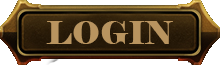
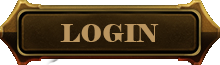
fuck

Changed region(s): [[0.1909, 0.3077, 0.7909, 0.6769]]

diff --git a/Game-V2/src/Graphics/LoginWindow.java b/Game-V2/src/Graphics/LoginWindow.java
@@ -11,10 +11,15 @@ import javax.swing.JFormattedTextField;
 import javax.swing.JLabel;
 import java.awt.Font;
 import java.awt.Color;
+import java.awt.Dimension;
+
+import javax.imageio.ImageIO;
+import javax.swing.ImageIcon;
 import javax.swing.JButton;
 import javax.swing.JPasswordField;
 import java.awt.event.MouseAdapter;
 import java.awt.event.MouseEvent;
+import java.io.File;
 import java.awt.event.KeyAdapter;
 import java.awt.event.KeyEvent;
 
@@ -25,23 +30,12 @@ public class LoginWindow {
 	private JPasswordField passwordField;
 	private String username, passwordHash;
 	private MainWindowManager parentClass;
-	/**
-	 * Launch the application.
-	 */
-//	public static void main(String[] args) {
-//		EventQueue.invokeLater(new Runnable() {
-//			public void run() {
-//				try {
-//														//just because I have to
-//					LoginWindow window = new LoginWindow(new MainWindowManager());
-//					window.frame.setVisible(true);
-//					
-//				} catch (Exception e) {
-//					e.printStackTrace();
-//				}
-//			}
-//		});
-//	}
+	private ImageIcon loginBtnimg, loginBtnpressedimg, registerBtnimg, registerBtnpressedimg;
+	
+	private Dimension size = java.awt.Toolkit.getDefaultToolkit().getScreenSize();
+	private final int screenWidth = size.width;
+	private final int screenHeight = size.height;
+
 	
 	public LoginWindow(MainWindowManager parentClass) {
 		this.parentClass = parentClass;
@@ -55,29 +49,24 @@ public class LoginWindow {
 		this.parentClass = parentClass;
 		this.frame = frame;
 		initialize();
-//		MainWindowManager.centreWindow(frame);
-//		this.frame.setVisible(true);
 	}
 	
-	/**
-	 * Create the application.
-	 */
-	/**
-	public LoginWindow() {
-		initialize();
-		MainWindowManager.centreWindow(frame);
-		frame.setVisible(true);
-	}
-	*/
+
+
 
 	/**
 	 * Initialize the contents of the frame.
 	 */
 	private void initialize() {
+		try {
+		loginBtnimg = new ImageIcon(ImageIO.read(new File("src/resources/MainScreenImg/loginBtn.png")));
+		loginBtnpressedimg = new ImageIcon(ImageIO.read(new File("src/resources/MainScreenImg/loginBtnpressed.png")));
+		registerBtnimg = new ImageIcon(ImageIO.read(new File("src/resources/MainScreenImg/registerBtn.png")));
+		registerBtnpressedimg = new ImageIcon(ImageIO.read(new File("src/resources/MainScreenImg/registerBtnpressed.png")));
+		}catch(Exception e) {
+			e.printStackTrace();
+		}
 
-//		frame.setBounds(100, 100, 600, 400);
-//		frame.setDefaultCloseOperation(JFrame.EXIT_ON_CLOSE);
-//		frame.getContentPane().setLayout(null);
 		
 		usernameField = new JTextField();
 		usernameField.setToolTipText("Nome");
@@ -97,7 +86,8 @@ public class LoginWindow {
 		passwordLabel.setBounds(127, 195, 76, 22);
 		frame.getContentPane().add(passwordLabel);
 		
-		JButton btnLogin = new JButton("Login");
+		FancyButton btnLogin = new FancyButton("btnLogin", screenWidth/2-250, screenHeight/2+50,
+				200, 67, loginBtnimg, loginBtnpressedimg);
 		btnLogin.addKeyListener(new KeyAdapter() {
 			@Override
 			public void keyPressed(KeyEvent e) {
@@ -112,12 +102,11 @@ public class LoginWindow {
 				tryLogin();
 			}
 		});
-		btnLogin.setBounds(215, 254, 97, 25);
-		frame.getContentPane().add(btnLogin);
+		frame.add(btnLogin);
 		
-		JButton btnRegister = new JButton("Register");
-		btnRegister.setBounds(363, 254, 97, 25);
-		frame.getContentPane().add(btnRegister);
+		FancyButton btnRegister = new FancyButton("btnRegister", screenWidth/2+50, screenHeight/2+50,
+				200, 67, registerBtnimg, registerBtnpressedimg);
+		frame.add(btnRegister);
 		
 		passwordField = new JPasswordField();
 		passwordField.setToolTipText("Password");
